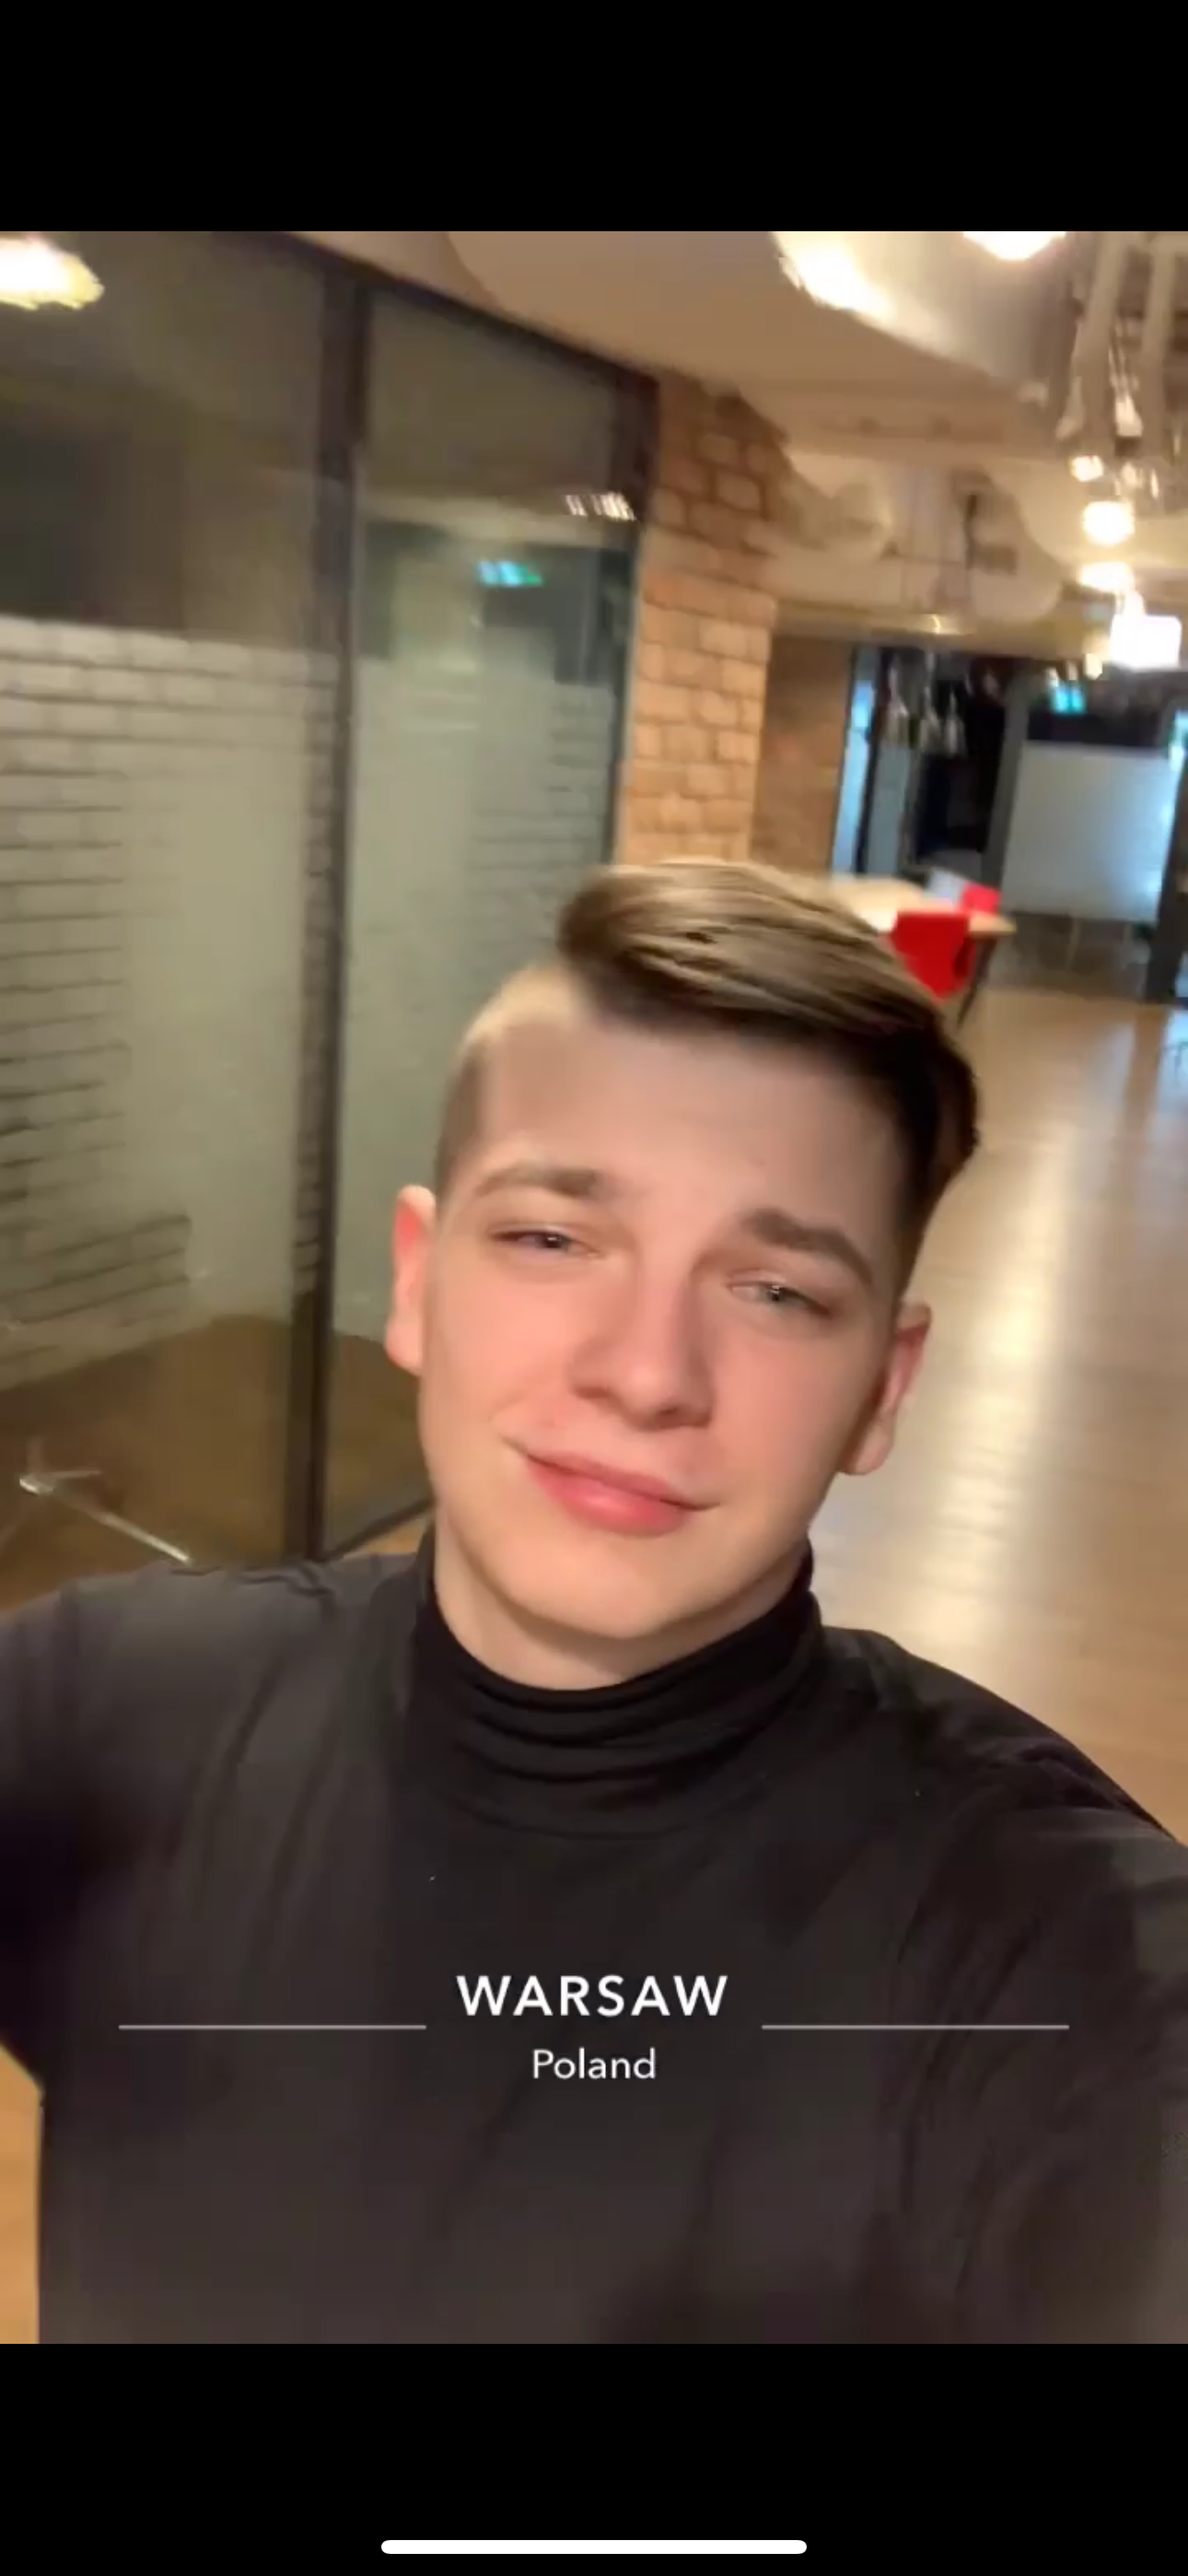
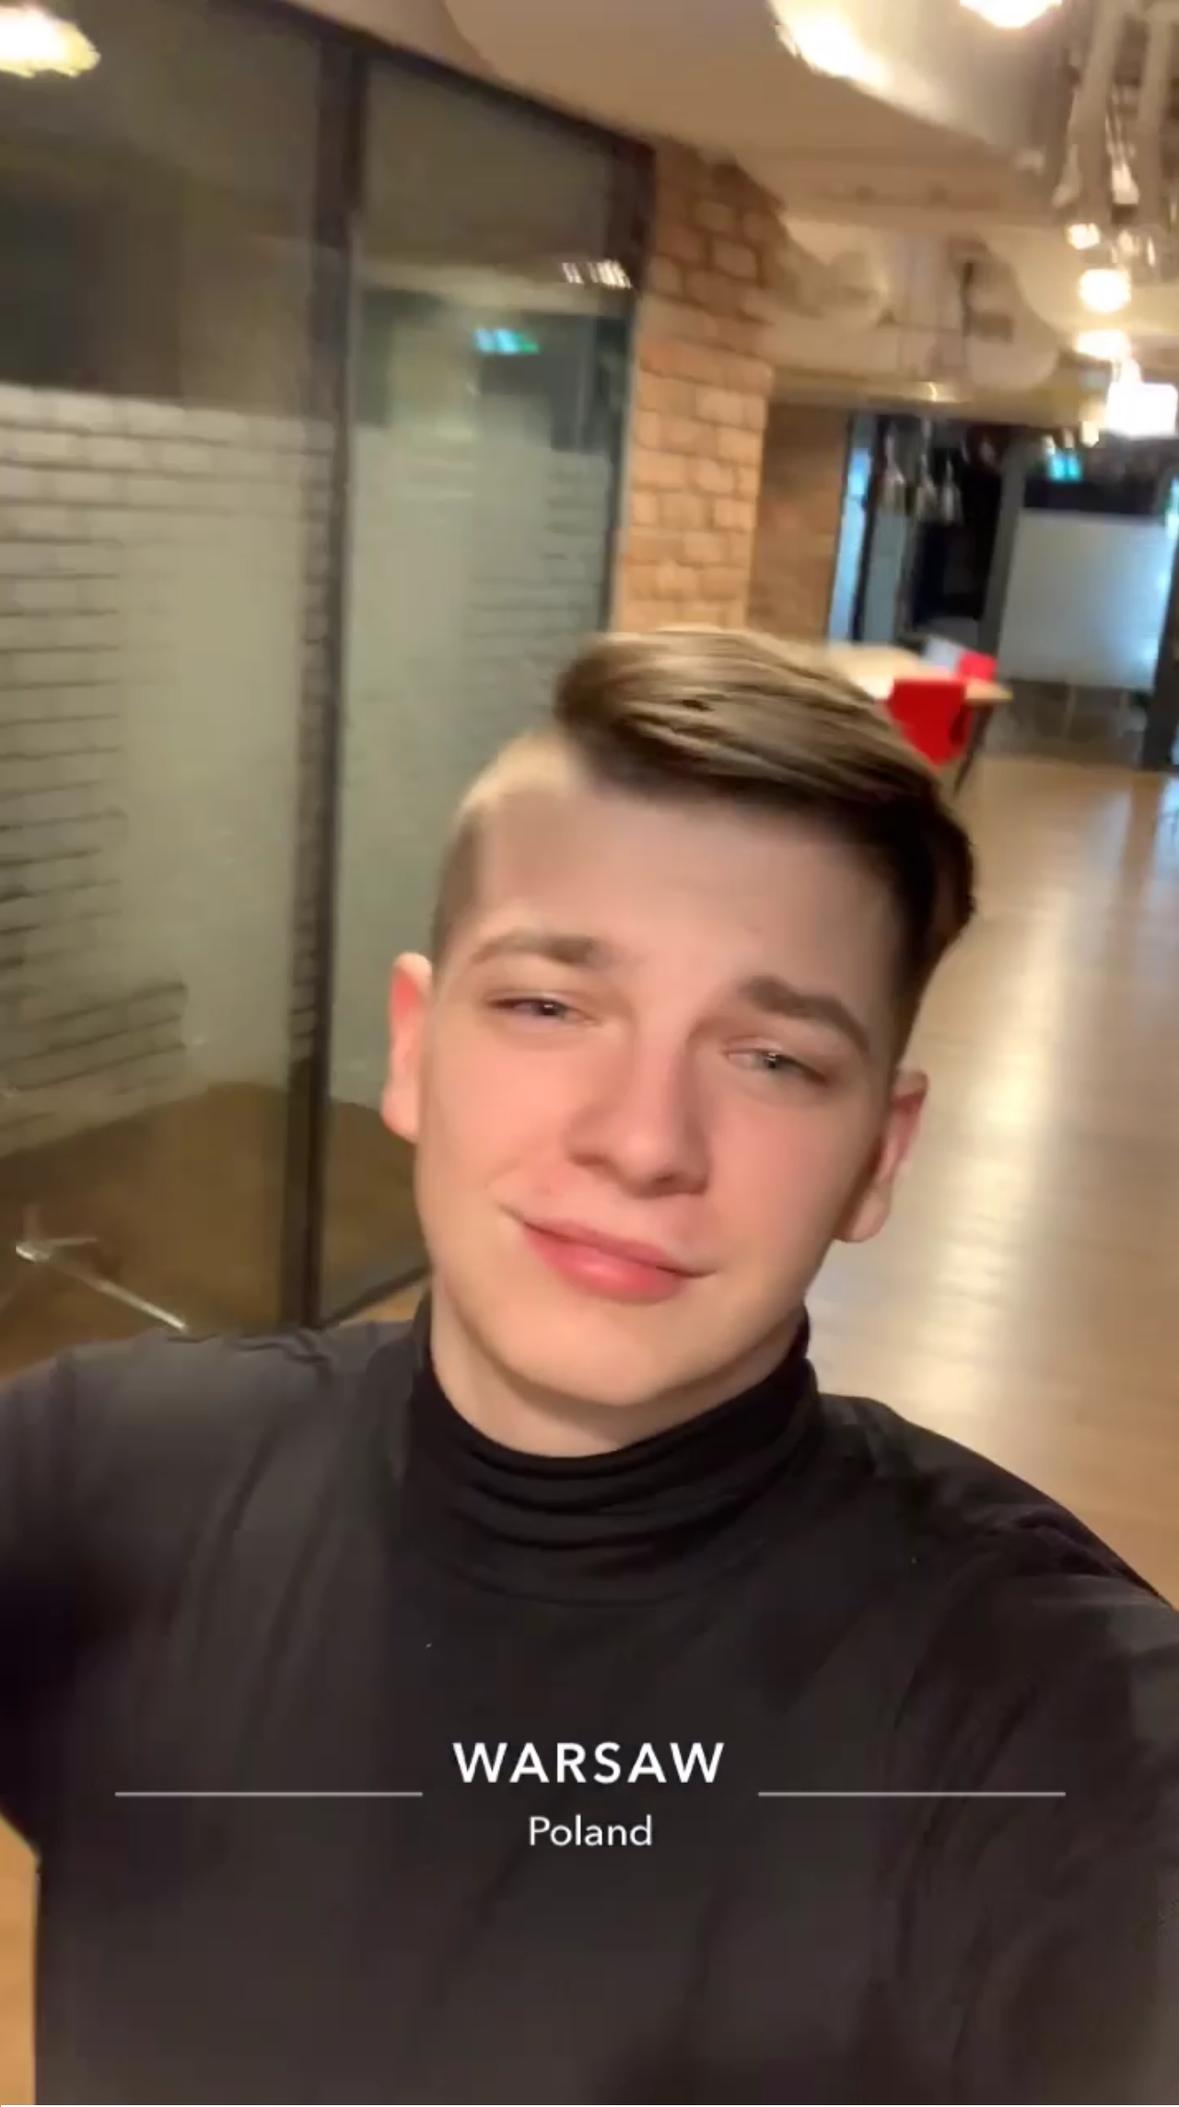
photos change

diff --git a/src/components/Hero.tsx b/src/components/Hero.tsx
@@ -20,7 +20,7 @@ const Hero = () => {
             <div className="relative">
               <div className="absolute inset-0 bg-gradient-to-br from-[#00BFFF]/20 to-transparent opacity-50 rounded-2xl" />
               <Image
-                src="/images/Ja.png"
+                src="/images/profilowe.PNG"
                 alt="Kacper Mruk"
                 width={500}
                 height={600}
